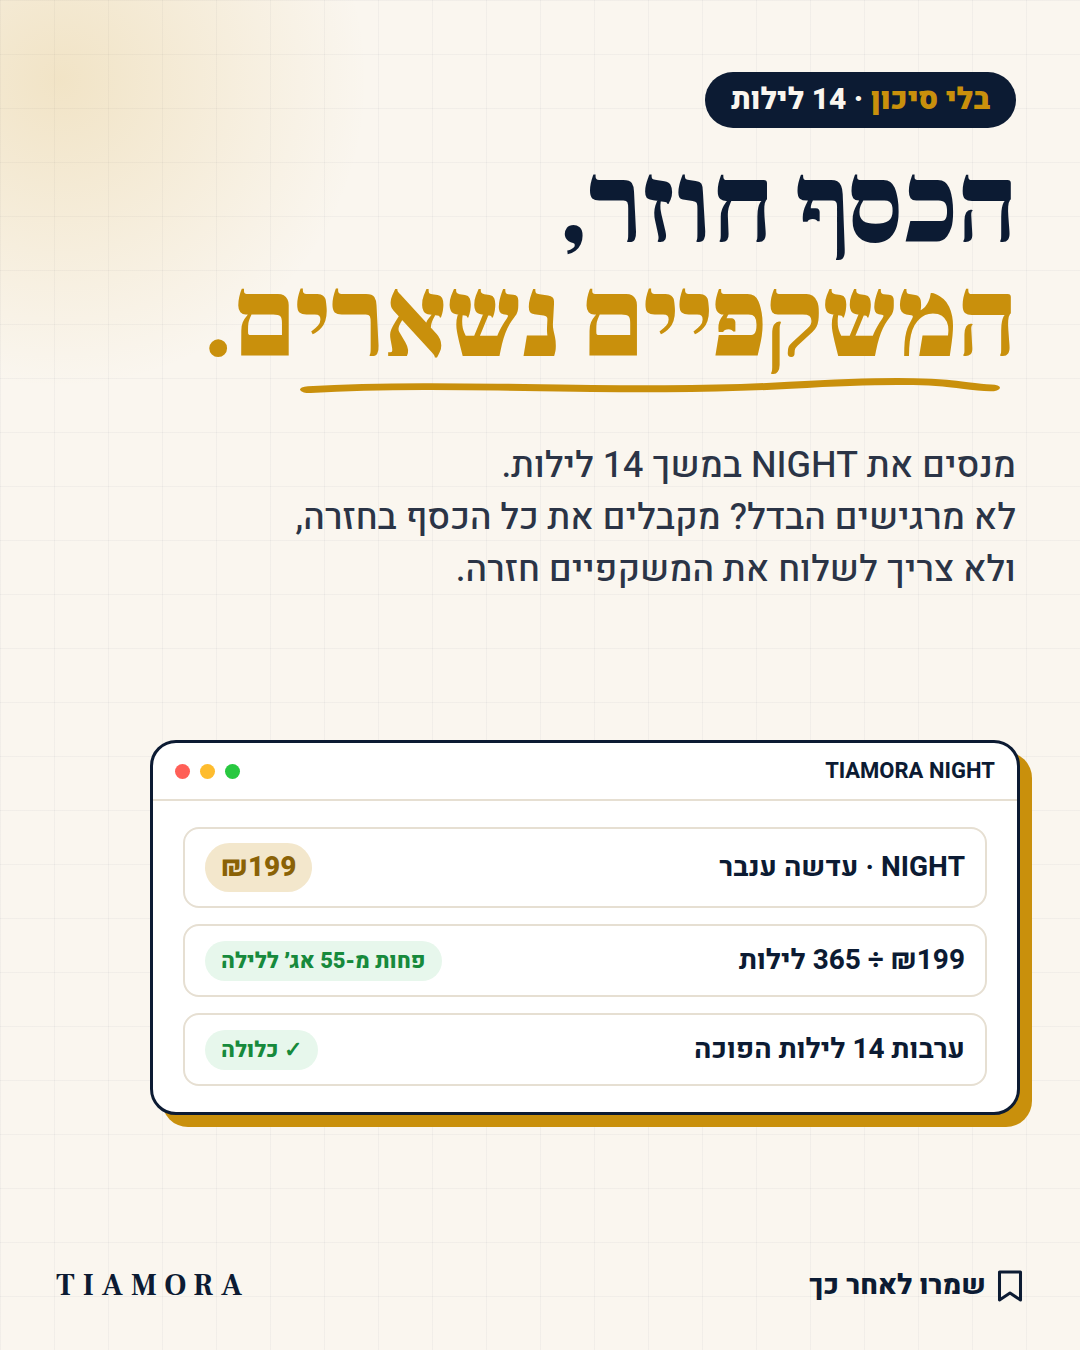
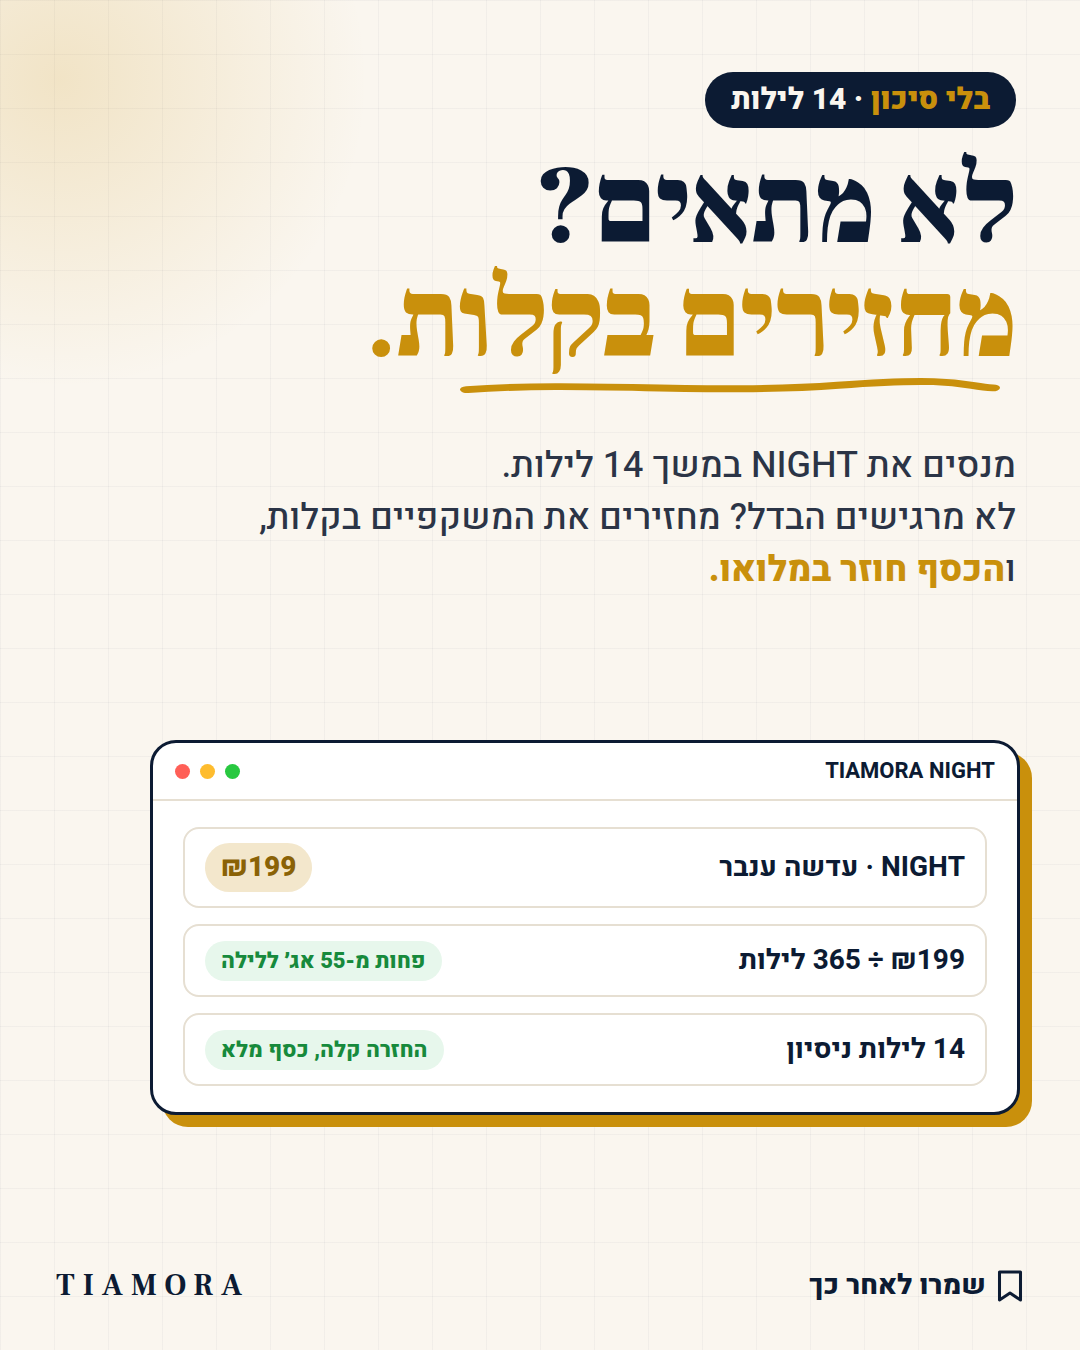
Add parents carousel (Michal, C3) and switch guarantee to easy returns
New offer: 14 nights, easy return, full refund. The first deck's
guarantee slide and caption are updated to match.

Claude-Session: https://claude.ai/code/session_01PiXd2HsjuWFPFqnJQ1ZsmN

diff --git a/carousels/2026-10-02-blue-line-parents/carousel.html b/carousels/2026-10-02-blue-line-parents/carousel.html
@@ -1,0 +1,116 @@
+<!doctype html>
+<html lang="he" dir="rtl"><head><meta charset="utf-8">
+<title>TIAMORA · הפס הכחול מתחת לדלת</title>
+<link href="https://fonts.googleapis.com/css2?family=Frank+Ruhl+Libre:wght@500;700;900&family=Heebo:wght@400;500;700;800;900&display=swap" rel="stylesheet">
+<style>
+:root{--bg:#FAF6EF;--ink:#0C1B33;--or:#C9900C;--soft:#F3E7CC;--mut:#7C8494;--line:#E6DFD2}
+*{box-sizing:border-box;margin:0;padding:0}
+body{width:1080px;background:#ccc}
+.s{position:relative;width:1080px;height:1350px;overflow:hidden;background:var(--bg);font-family:Heebo,sans-serif;color:var(--ink)}
+.s.dark{background:var(--ink);color:#FAF6EF}
+.s:before{content:"";position:absolute;inset:0;background-image:linear-gradient(#0C1B3309 1px,transparent 1px),linear-gradient(90deg,#0C1B3309 1px,transparent 1px);background-size:54px 54px}
+.s.dark:before{background-image:linear-gradient(#ffffff08 1px,transparent 1px),linear-gradient(90deg,#ffffff08 1px,transparent 1px)}
+.blob{position:absolute;width:640px;height:640px;border-radius:50%;background:radial-gradient(#C9900C2e,#C9900C00 68%);left:-260px;top:-240px}
+.num{position:absolute;left:56px;top:56px;font:900 280px/0.8 'Frank Ruhl Libre';color:transparent;-webkit-text-stroke:4px var(--or);direction:ltr}
+.tag{position:absolute;right:64px;top:72px;font:800 30px Heebo;background:var(--ink);color:#FAF6EF;border-radius:40px;padding:6px 26px}
+.dark .tag{background:var(--or);color:var(--ink)}
+.tag b{color:var(--or)}
+h1{position:absolute;right:64px;top:140px;width:760px;font:900 112px/1.02 'Frank Ruhl Libre';text-align:right;letter-spacing:-1px}
+h1 .o{color:var(--or)}
+.sub{position:absolute;right:64px;width:860px;font:500 36px/1.45 Heebo;text-align:right;color:#2B3446}
+.dark .sub{color:#D9DCE3}
+.sub b{color:var(--or);font-weight:800}
+.win{position:absolute;background:#fff;border-radius:26px;border:3px solid var(--ink);box-shadow:12px 12px 0 var(--or);overflow:hidden;color:var(--ink)}
+.bar{height:58px;border-bottom:2px solid var(--line);display:flex;align-items:center;gap:10px;padding:0 22px;direction:ltr;font:700 22px Heebo;color:var(--mut)}
+.bar i{width:15px;height:15px;border-radius:50%;display:block}
+.bar span{margin-left:auto;color:var(--ink);direction:rtl}
+.body{padding:26px 30px;display:flex;flex-direction:column;gap:16px}
+.row{display:flex;align-items:center;gap:16px;border:2px solid var(--line);border-radius:16px;padding:14px 20px;font:700 28px Heebo;background:#fff}
+.row .t{font:800 24px Heebo;color:var(--mut);direction:ltr;min-width:96px;text-align:right}
+.ok{margin-right:auto;background:#E7F7EC;color:#178A3C;border-radius:30px;padding:4px 16px;font:800 22px Heebo}
+.no{margin-right:auto;background:#FBEAEA;color:#B42318;border-radius:30px;padding:4px 16px;font:800 22px Heebo}
+.gd{margin-right:auto;background:var(--soft);color:#8A6206;border-radius:30px;padding:4px 16px;font:800 22px Heebo}
+.foot{position:absolute;left:56px;right:56px;bottom:44px;direction:ltr;display:flex;justify-content:space-between;align-items:center}
+.foot .h{font:700 30px 'Frank Ruhl Libre';letter-spacing:8px}
+.foot .sv{display:flex;align-items:center;gap:10px;font:800 28px Heebo;direction:rtl}
+.note{position:absolute;font:700 30px Heebo;color:var(--mut)}
+.door{position:absolute;left:300px;top:560px;width:480px;height:640px;background:#14264A;border:14px solid #1D3462;border-bottom:none;border-radius:6px 6px 0 0}
+.door:after{content:"";position:absolute;left:34px;top:300px;width:22px;height:60px;border-radius:12px;background:#C9900C}
+.strip{position:absolute;left:286px;top:1200px;width:508px;height:12px;background:#7FC4FF;box-shadow:0 0 30px 12px #3D8BFF99,0 0 90px 30px #3D8BFF44;border-radius:4px}
+.floor{position:absolute;left:0;right:0;top:1212px;height:140px;background:linear-gradient(#3D8BFF22,#0C1B3300 70%)}
+</style></head><body><div id="root"></div>
+<script>
+const HANDLE='TIAMORA';
+const OR='#C9900C';
+const BM=c=>`<svg width="28" height="34" viewBox="0 0 24 28"><path d="M3 2h18v24l-9-6-9 6z" fill="none" stroke="${c}" stroke-width="2.6" stroke-linejoin="round"/></svg>`;
+const foot=(i,n,dark)=>`<div class="foot"><div class="h" style="color:${dark?'#FAF6EF':'#0C1B33'}">${HANDLE}</div>${i<n?`<div class="sv">${BM(dark?'#FAF6EF':'#0C1B33')}שמרו לאחר כך</div>`:''}</div>`;
+const UL=(x,y,w)=>`<svg style="position:absolute;left:${x}px;top:${y}px;width:${w}px;height:26px" viewBox="0 0 300 30" preserveAspectRatio="none"><path d="M4 18 C 70 8, 140 24, 210 13 S 280 15, 296 16" stroke="${OR}" stroke-width="8" fill="none" stroke-linecap="round"/></svg>`;
+const win=(x,y,w,title,inner)=>`<div class="win" style="left:${x}px;top:${y}px;width:${w}px"><div class="bar"><i style="background:#FF5F57"></i><i style="background:#FEBC2E"></i><i style="background:#28C840"></i><span>${title}</span></div><div class="body">${inner}</div></div>`;
+const barRow=(label,pct,col,val)=>`<div style="display:flex;flex-direction:column;gap:10px"><div style="display:flex;justify-content:space-between;font:800 28px Heebo"><span>${label}</span><span style="direction:ltr;color:${col}">${val}</span></div><div style="height:34px;border-radius:20px;background:#F1ECE2;overflow:hidden;direction:rtl"><div style="width:${pct}%;height:100%;background:${col};border-radius:20px"></div></div></div>`;
+
+const N=7,S=[];
+// 1 COVER (dark, the hallway)
+S.push(`<div class="tag" style="top:84px">הורים · <b style="color:#0C1B33">22:40</b></div>
+<h1 style="top:150px;width:952px;font-size:118px">הפסקתי לריב איתו<br><span class="o">על הפס הכחול.</span></h1>
+<div class="sub" style="top:430px;width:952px">כבר אמרת לו פעמיים. את לא רוצה שזה יהפוך לעוד מריבה.</div>
+<div class="door"></div><div class="floor"></div><div class="strip"></div>
+${foot(1,N,true)}`);
+// 2 WHAT YOU TRIED
+S.push(`<div class="blob"></div><div class="num">01</div><div class="tag"><b>מה כבר ניסית</b></div>
+<h1 style="top:300px">זה לא שאת<br><span class="o">לא מצליחה.</span></h1>${UL(560,520,400)}
+<div class="sub" style="top:580px">ניסית כל מה שאומרים להורים לעשות.<br>כל אחד מהם נגמר <b>באותו ויכוח.</b></div>
+${win(150,770,870,'מה כבר ניסית',`
+<div class="row"><span>הגבלת זמן מסך</span><span class="no">הוא עקף</span></div>
+<div class="row"><span>"מכבים בעשר וחצי"</span><span class="no">מריבה כל ערב</span></div>
+<div class="row"><span>לקחת את הטלפון</span><span class="no">דלת נטרקת</span></div>
+<div class="row"><span>לדבר איתו ברוגע</span><span class="no">הנהן, המשיך</span></div>`)}
+${foot(2,N)}`);
+// 3 BELIEF 2: LIGHT, NOT DISCIPLINE
+S.push(`<div class="blob"></div><div class="num">02</div><div class="tag"><b>המנגנון</b> · אור</div>
+<h1 style="top:290px;width:1000px;font-size:90px">זו לא שאלה של משמעת.<br><span class="o">זו שאלה של אור.</span></h1>${UL(560,490,420)}
+<div class="sub" style="top:560px">הגוף מייצר <b>מלטונין</b> כשהאור סביבו נחלש.<br>אור כחול מהמסך בערב אומר לגוף שלו: עדיין יום.</div>
+${win(150,800,870,'מה קורה ב-22:40',`
+<div class="row"><span>מסך דולק בחדר החשוך</span><span class="gd">אור כחול</span></div>
+<div class="row"><span>האור נכנס ישר לעיניים</span><span class="gd">"עדיין יום"</span></div>
+<div class="row"><span>ייצור המלטונין</span><span class="no">מדוכא</span></div>`)}
+${foot(3,N)}`);
+// 4 BELIEF 3: PROTECTION WITHOUT A FIGHT (dark)
+S.push(`<div class="tag">הגנה בלי עימות</div>
+<h1 style="top:150px;width:1000px;font-size:88px">לא לוקחים לו את הטלפון.<br><span class="o">משנים את האור.</span></h1>
+<div class="sub" style="top:400px;width:952px">הוא לא צריך לוותר על כלום. את לא צריכה לנצח באף ויכוח.<br>NIGHT חוסם <b>97% מהאור הכחול</b> לפני שהוא מגיע לעיניים.</div>
+${win(150,700,870,'הערב שלו, עם NIGHT',`
+<div class="row"><span>הטלפון</span><span class="ok">✓ נשאר אצלו</span></div>
+<div class="row"><span>השיחה עם החברים</span><span class="ok">✓ ממשיכה</span></div>
+<div class="row"><span>הוויכוח בעשר וחצי</span><span class="gd">אין על מה לריב</span></div>`)}
+${foot(4,N,true)}`);
+// 5 OBJECTION: WILL HE WEAR IT / IS IT SIMPLE
+S.push(`<div class="blob"></div><div class="num">03</div><div class="tag"><b>השאלה האמיתית</b></div>
+<h1 style="top:300px;width:952px">"והוא בכלל<br><span class="o">ישים את זה?"</span></h1>${UL(560,520,400)}
+<div class="sub" style="top:580px">זה נראה כמו משקפיים, לא כמו טיפול.<br>זו עדשה. <b>שמים ומורידים.</b> זה הכל.</div>
+${win(150,780,870,'מה זה בעצם',`
+<div class="row"><span>תוסף</span><span class="no">✕ לא</span></div>
+<div class="row"><span>תרופה</span><span class="no">✕ לא</span></div>
+<div class="row"><span>מכשיר</span><span class="no">✕ לא</span></div>
+<div class="row" style="border-color:var(--or)"><span>עדשה שמרכיבים בערב</span><span class="ok">✓ כן</span></div>`)}
+${foot(5,N)}`);
+// 6 OFFER: TRIO FIRST
+S.push(`<div class="blob"></div><div class="tag"><b>אחד לו, אחד לך</b></div>
+<h1 style="top:150px;width:952px">ככה זה לא<br><span class="o">"מה שאמא הכריחה".</span></h1>${UL(300,374,700)}
+<div class="sub" style="top:440px;width:952px">כשגם את מרכיבה, זה הופך למשהו שעושים ביחד.</div>
+${win(150,600,870,'TIAMORA · למשפחה',`
+<div class="row" style="border-color:var(--or)"><span>TRIO · שני NIGHT ו-DAY</span><span class="gd" style="font-size:28px">₪398</span></div>
+<div class="row"><span>הזוג השלישי במתנה</span><span class="ok">₪169 בכיס</span></div>
+<div class="row"><span>NIGHT · זוג אחד להתחלה</span><span class="gd" style="font-size:28px">₪199</span></div>
+<div class="row"><span>14 לילות ניסיון</span><span class="ok">לא מתאים? מחזירים בקלות</span></div>`)}
+<div class="sub" style="top:1150px;width:952px;font-size:32px">הכסף חוזר במלואו. <b>הסיכון עלינו.</b></div>
+${foot(6,N)}`);
+// 7 CTA
+S.push(`<div class="blob" style="left:auto;right:-260px;top:auto;bottom:-260px"></div>
+<h1 style="top:130px;right:0;width:1080px;text-align:center;font-size:116px">רוצה לנסות<br>ערב אחד בלי ויכוח?</h1>
+<div class="sub" style="top:430px;width:1080px;right:0;text-align:center;font-size:42px">תגיבי את המילה</div>
+<div style="position:absolute;left:0;right:0;top:470px;text-align:center;font:900 260px/1.1 'Frank Ruhl Libre';color:${OR}">ביחד</div>
+<div class="win" style="left:150px;top:820px;width:780px;box-shadow:12px 12px 0 #0C1B33"><div style="padding:22px 28px;display:flex;align-items:center;gap:18px;direction:ltr"><span style="width:56px;height:56px;border-radius:50%;background:linear-gradient(45deg,#F58529,#DD2A7B,#8134AF);display:block"></span><div style="flex:1"><div style="font:800 24px Heebo">you</div><div style="font:700 40px Heebo;direction:rtl;text-align:left">ביחד</div></div><svg width="40" height="36" viewBox="0 0 24 22"><path d="M12 21s-9-5.6-9-12a5 5 0 0 1 9-3 5 5 0 0 1 9 3c0 6.4-9 12-9 12z" fill="#FF3040"/></svg></div></div>
+<div class="sub" style="top:1010px;width:1080px;right:0;text-align:center;font-size:38px">ונשלח לך בפרטי את כל הפרטים.<br>14 לילות ניסיון, <b>החזרה קלה והכסף חוזר.</b></div>
+${foot(7,N)}`);
+document.getElementById('root').innerHTML=S.map((h,i)=>`<section class="s${(i===0||i===3)?' dark':''}">${h}</section>`).join('');
+</script></body></html>

diff --git a/carousels/2026-10-02-three-things/carousel.html b/carousels/2026-10-02-three-things/carousel.html
@@ -23,7 +23,7 @@ h1 .o{color:var(--or)}
 .win{position:absolute;background:#fff;border-radius:26px;border:3px solid var(--ink);box-shadow:12px 12px 0 var(--or);overflow:hidden;color:var(--ink)}
 .bar{height:58px;border-bottom:2px solid var(--line);display:flex;align-items:center;gap:10px;padding:0 22px;direction:ltr;font:700 22px Heebo;color:var(--mut)}
 .bar i{width:15px;height:15px;border-radius:50%;display:block}
-.bar span{margin-left:auto;color:var(--ink)}
+.bar span{margin-left:auto;color:var(--ink);direction:rtl}
 .body{padding:26px 30px;display:flex;flex-direction:column;gap:16px}
 .row{display:flex;align-items:center;gap:16px;border:2px solid var(--line);border-radius:16px;padding:14px 20px;font:700 28px Heebo;background:#fff}
 .row .t{font:800 24px Heebo;color:var(--mut);direction:ltr;min-width:96px;text-align:right}
@@ -94,12 +94,12 @@ ${win(150,680,870,'הערב החדש שלך',`
 ${foot(5,N,true)}`);
 // 6 GUARANTEE
 S.push(`<div class="blob"></div><div class="tag"><b>בלי סיכון</b> · 14 לילות</div>
-<h1 style="top:150px;width:952px">הכסף חוזר,<br><span class="o">המשקפיים נשארים.</span></h1>${UL(300,374,700)}
-<div class="sub" style="top:440px;width:952px">מנסים את NIGHT במשך 14 לילות.<br>לא מרגישים הבדל? מקבלים את כל הכסף בחזרה,<br>ולא צריך לשלוח את המשקפיים חזרה.</div>
+<h1 style="top:150px;width:952px">לא מתאים?<br><span class="o">מחזירים בקלות.</span></h1>${UL(460,374,540)}
+<div class="sub" style="top:440px;width:952px">מנסים את NIGHT במשך 14 לילות.<br>לא מרגישים הבדל? מחזירים את המשקפיים בקלות,<br>ו<b>הכסף חוזר במלואו.</b></div>
 ${win(150,740,870,'TIAMORA NIGHT',`
 <div class="row"><span>NIGHT · עדשה ענבר</span><span class="gd" style="font-size:28px">₪199</span></div>
 <div class="row"><span>₪199 ÷ 365 לילות</span><span class="ok">פחות מ-55 אג׳ ללילה</span></div>
-<div class="row"><span>ערבות 14 לילות הפוכה</span><span class="ok">✓ כלולה</span></div>`)}
+<div class="row"><span>14 לילות ניסיון</span><span class="ok">החזרה קלה, כסף מלא</span></div>`)}
 ${foot(6,N)}`);
 // 7 CTA
 S.push(`<div class="blob" style="left:auto;right:-260px;top:auto;bottom:-260px"></div>
